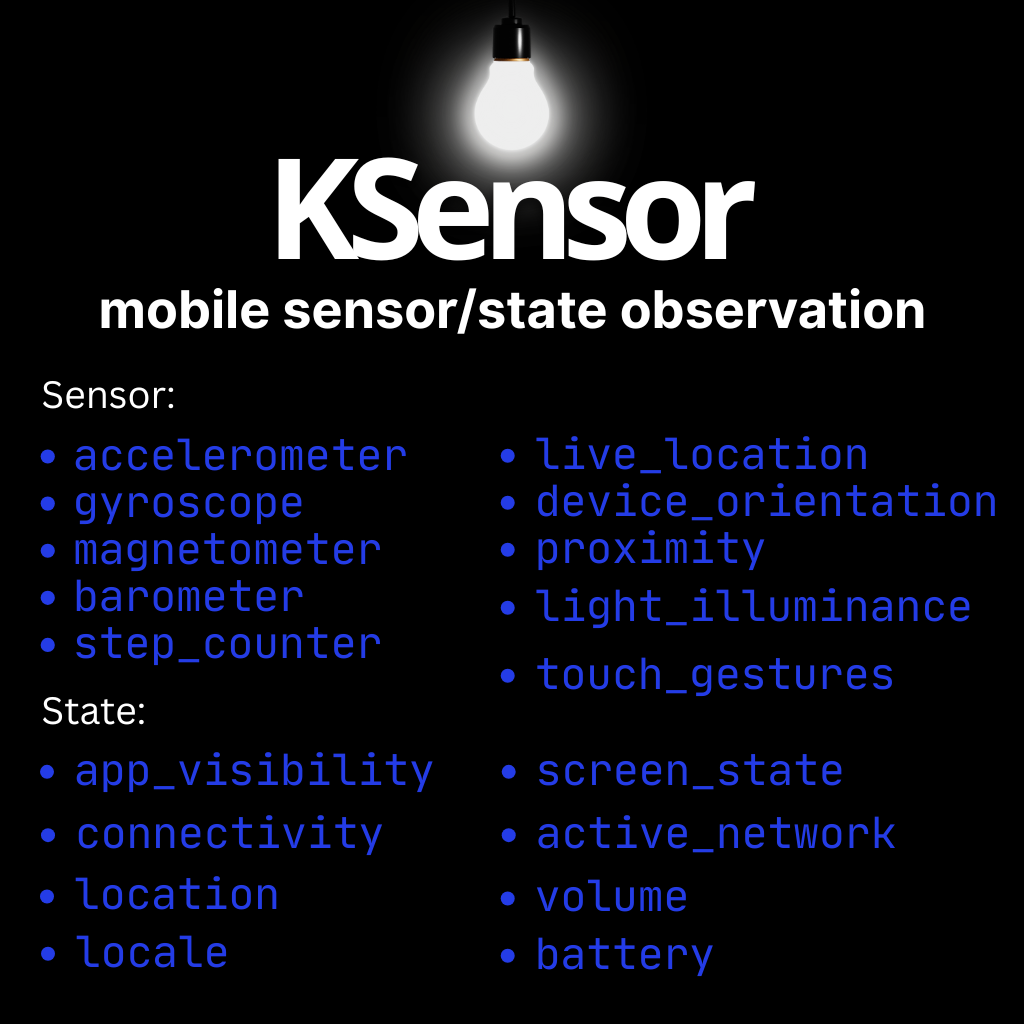
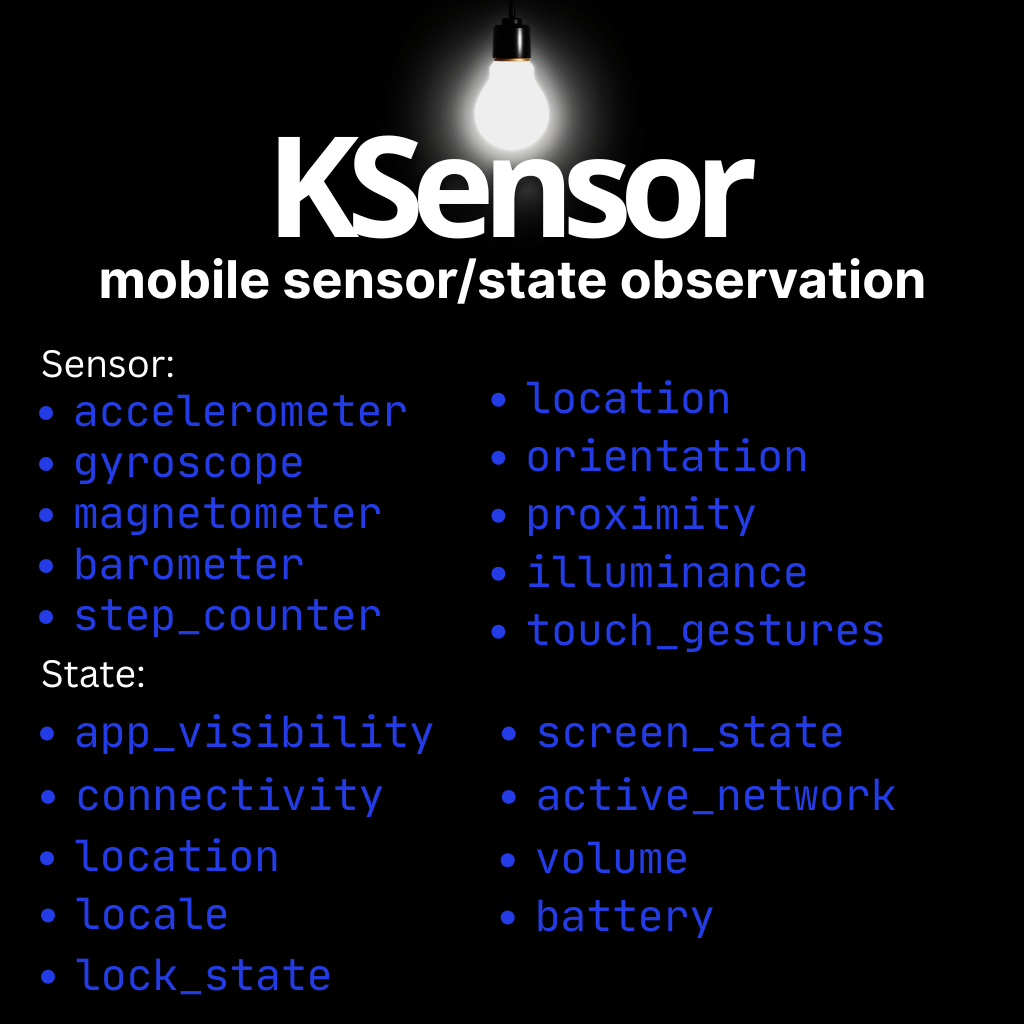
update readme

Changed region(s): [[0.0312, 0.125, 0.9062, 0.9688], [0.4688, 0.375, 0.9688, 0.9688], [0.4688, 0.6562, 0.5, 0.6875]]

diff --git a/ksensor/src/commonMain/kotlin/org/kmp/ksensor/state/StateData.kt b/ksensor/src/commonMain/kotlin/org/kmp/ksensor/state/StateData.kt
@@ -32,7 +32,7 @@ sealed class StateData {
     ) : StateData()
 
     data class LockStatus(
-        val isLocked:Boolean
+        val isDeviceLocked:Boolean
     ):StateData()
 
     data class CurrentActiveNetwork(val activeNetwork: ActiveNetwork) : StateData() {

diff --git a/README.md b/README.md
@@ -10,7 +10,7 @@
 Add it in your `commonMain.dependencies` :
 
   ```
-  implementation("io.github.shadmanadman:KSensor:2.0.4")
+  implementation("io.github.shadmanadman:KSensor:2.10.4")
   ```
 
 ### Sensors Observation
@@ -80,7 +80,8 @@ StateType.LOCATION,
 StateType.SCREEN_STATE
 StateType.VOLUME,
 StateType.LOCALE,
-StateType.BATTERY)
+StateType.BATTERY,
+StateType.LOCK)
 ```
 
 - Add observers.
@@ -107,6 +108,7 @@ Each `StateUpdate` has a `platformType` so you know the state data comes from An
 - AppVisibilityStatus(val isAppVisible: Boolean)
 - LocationStatus(val isLocationOn: Boolean)
 - ScreenStatus(val isScreenOn: Boolean)
+- LockStatus(val isDeviceLocked: Boolean)
 - CurrentActiveNetwork(val activeNetwork: ActiveNetwork)
 - ConnectivityStatus(val isConnected: Boolean)
 - VolumeStatus(val volumePercentage: Int)